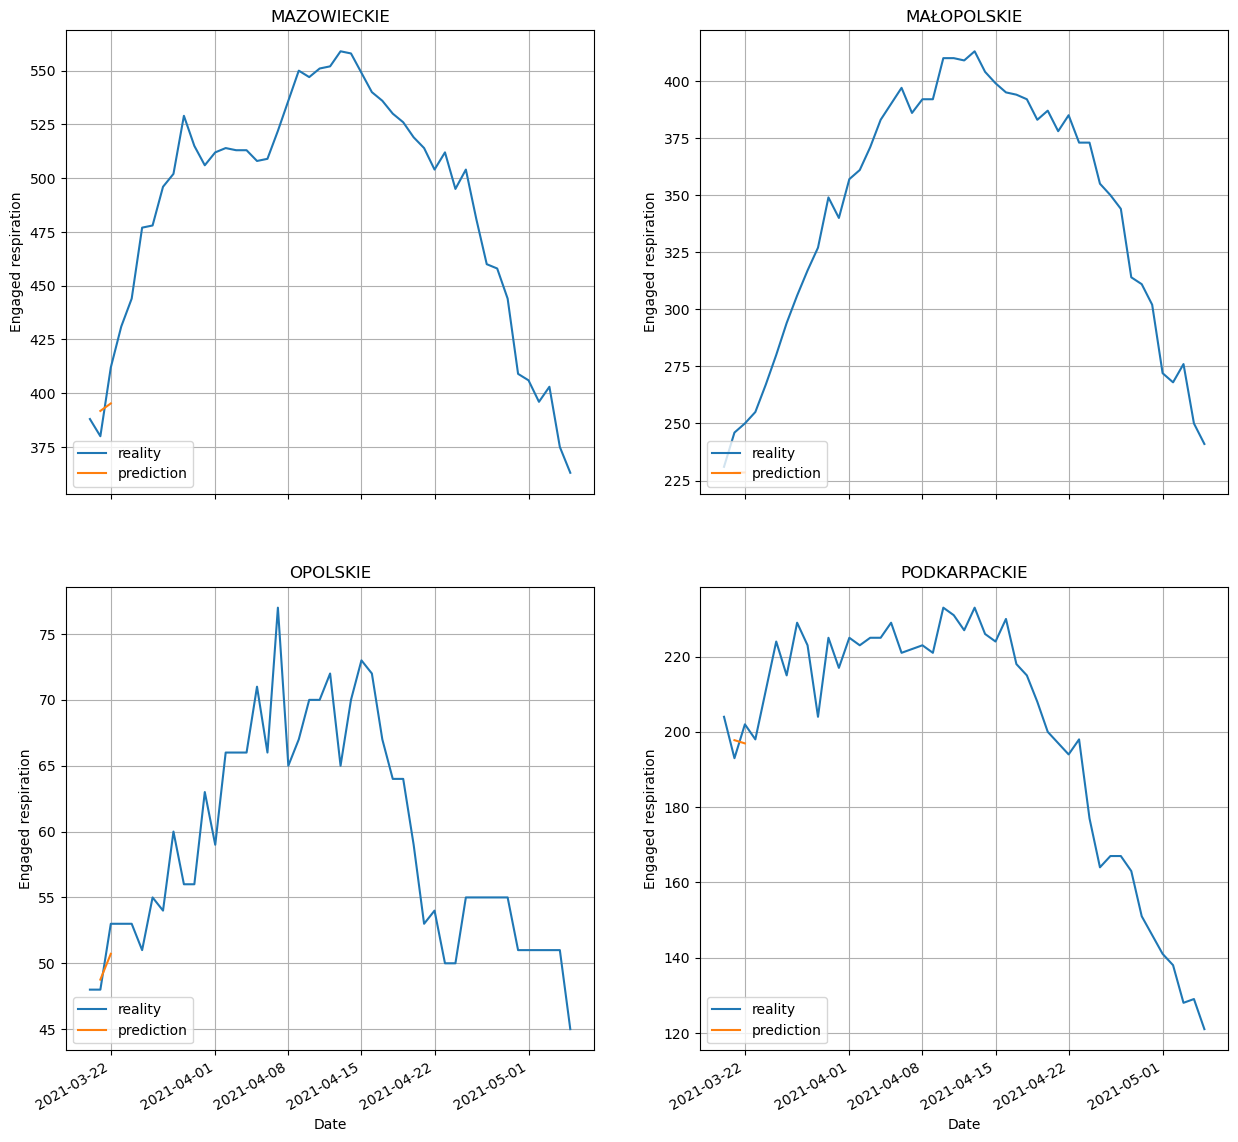
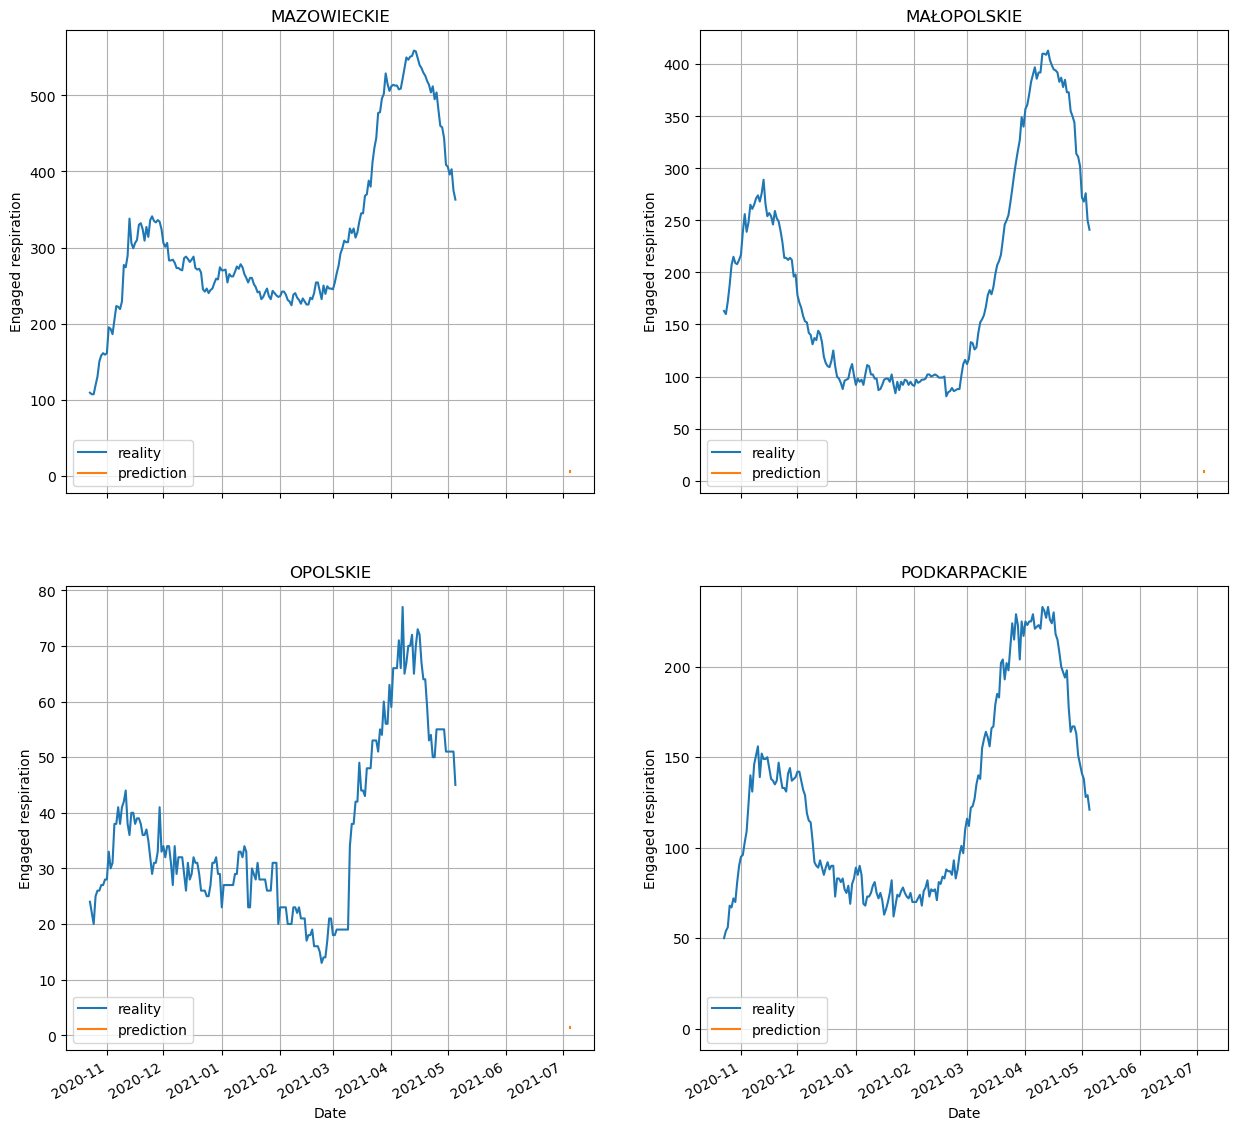
make prediction  future from current data

diff --git a/RNN/prediction/make_prediction_n_days_ahead.py b/RNN/prediction/make_prediction_n_days_ahead.py
@@ -1,7 +1,9 @@
 import pandas as pd
-from RNN.model.simple_regresion import make_all, make_submission, clear_model
+from RNN.model.simple_regresion import make_all, make_submission, clear_model, make_future_submission
 from prepareData.merge.merge_all_data import get_all_merge_data_from_to
 from datetime import datetime, timedelta
+
+from prepareData.prepare_data_epidemic_situation_in_regions import get_test_respiration
 from prepareData.test_train.make_train_test_from_merge_data import \
     reshape_data_merge_to_get_train_period_of_time_history, make_date_to_prediction, get_train_target
 
@@ -10,12 +12,6 @@ def next_day(date: str):
     date = datetime.strptime(date, "%Y-%m-%d")
     modified_date = date + timedelta(days=1)
     return datetime.strftime(modified_date, "%Y-%m-%d")
-
-
-def get_test_respiration(data_merge: pd.DataFrame, date):
-    data_merge = data_merge.iloc[:, [0, 1, -1]]
-    finale_day = data_merge[data_merge['date'] == date]
-    return finale_day
 
 
 def make_prediction_n_days_ahead(data_all_days:pd.DataFrame, period_of_time=21, last_day_train='2021-03-20',
@@ -42,19 +38,23 @@ def make_prediction_n_days_ahead(data_all_days:pd.DataFrame, period_of_time=21, 
         # train,test_to_predict = standardScaler(train,test_to_predict)
 
         make_all(train, target)
-        submission = make_submission(test_to_predict, day_ahead_to_predict)
+        submission = make_future_submission(test_to_predict, day)
         clear_model()
 
-        submission = submission.reset_index()
+        # submission = submission.reset_index()
         test_ahead: pd.DataFrame = get_test_respiration(data_all_days, day)
 
-        submission.rename(
-            columns={submission.columns[0]: test_ahead.columns[0], submission.columns[1]: test_ahead.columns[1],
-                     submission.columns[2]: 'prediction'},
-            inplace=True)
-        submission = submission.drop(columns='date')
+        # submission.rename(
+        #     columns={submission.columns[0]: test_ahead.columns[0], submission.columns[1]: test_ahead.columns[1],
+        #              submission.columns[2]: 'prediction'},
+        #     inplace=True)
+        # submission = submission.drop(columns='date')
 
-        result = test_ahead.merge(submission, on=['region'])
+        if test_ahead.empty:
+            result = submission
+        else:
+            submission = submission.drop(columns='date')
+            result = submission.merge(test_ahead, on=['region'])
 
         # result_err = result.iloc[:, :2]
         # result_err['subtract'] = result.iloc[:, -2].astype(float) - result.iloc[:, -1].astype(float)

diff --git a/RNN/model/simple_regresion.py b/RNN/model/simple_regresion.py
@@ -45,9 +45,9 @@ def compline_model():
 
 def make_submission_cvs(train: pd.DataFrame, target, sub_name):
     prediction = NN_model.predict(train)
-    my_submission = pd.DataFrame({'Id': train.index[:].to_list(),
-                                  'Target': target,
-                                  'Prediction': prediction[:, 0]})
+    my_submission = pd.DataFrame({'region': train.index[:].to_list(),
+                                  'date': target,
+                                  'prediction': prediction[:, 0]})
     # my_submission.index[:] = train.index[:]
     my_submission.to_csv('{}.csv'.format(sub_name), index=False)
     print('A submission file has been made ', sub_name)
@@ -57,6 +57,16 @@ def make_submission(test: pd.DataFrame, days_ahead):
     prediction = NN_model.predict(test)
     name = 'prediction ' + str(days_ahead) + ' ahead'
     my_submission = pd.DataFrame(index=test.index, data={name: list(prediction[:, 0])})
+    return my_submission
+
+def make_future_submission(test: pd.DataFrame, day):
+    prediction = NN_model.predict(test)
+    # name = 'prediction ' + str(days_ahead) + ' ahead'
+    # name = 'prediction'
+    my_submission = pd.DataFrame({'region': test.index.get_level_values(0),
+                                  'date': day,
+                                  'prediction': prediction[:, 0]})
+    # my_submission = pd.DataFrame(index=test.index, data={name: list(prediction[:, 0])})
     return my_submission
 
 

diff --git a/prepareData/prepare_data_epidemic_situation_in_regions.py b/prepareData/prepare_data_epidemic_situation_in_regions.py
@@ -80,14 +80,19 @@ def drop_columns(data: pd.DataFrame):
     return data
 
 
-def get_test_respiration(date='2021-04-11'):
-    finale_data = prepare_data_epidemic_situation_in_regions(
-        'data/data_input/COVID-19 w Polsce - Sytuacja epidemiczna w województwach od 05.11 do 05.05.2021.csv')
-
-    finale_data = finale_data.drop(columns=[finale_data.columns[-2]])
-    finale_day = finale_data[finale_data['date'] == date]
-
+def get_test_respiration(data_merge: pd.DataFrame, date):
+    data_merge = data_merge.iloc[:, [0, 1, -1]]
+    finale_day:pd.DataFrame = data_merge[data_merge['date'] == date]
     return finale_day
+
+# def get_test_respiration(date='2021-04-11'):
+#     finale_data = prepare_data_epidemic_situation_in_regions(
+#         'data/data_input/COVID-19 w Polsce - Sytuacja epidemiczna w województwach od 05.11 do 05.05.2021.csv')
+#
+#     finale_data = finale_data.drop(columns=[finale_data.columns[-2]])
+#     finale_day = finale_data[finale_data['date'] == date]
+#
+#     return finale_day
 
 
 def to_columns_type_numeric(data):

diff --git a/RNN/main.py b/RNN/main.py
@@ -1,11 +1,12 @@
 from RNN.prediction.make_prediction_and_plots import make_prediction_and_subplot_for_all_regions, \
     make_plots_relative_error_for_regions
+# %%
 result = make_prediction_and_subplot_for_all_regions(day_ahead=30,period_of_time=7)
 make_plots_relative_error_for_regions(prediction = result)
 
 # %% now
-result = make_prediction_and_subplot_for_all_regions(last_day_train= None,day_ahead=2,period_of_time=7)
-make_plots_relative_error_for_regions(prediction = result)
+result = make_prediction_and_subplot_for_all_regions(last_day_train= None,day_ahead=30,period_of_time=7, subplot= False)
+# make_plots_relative_error_for_regions(prediction = result)
 
 
 
